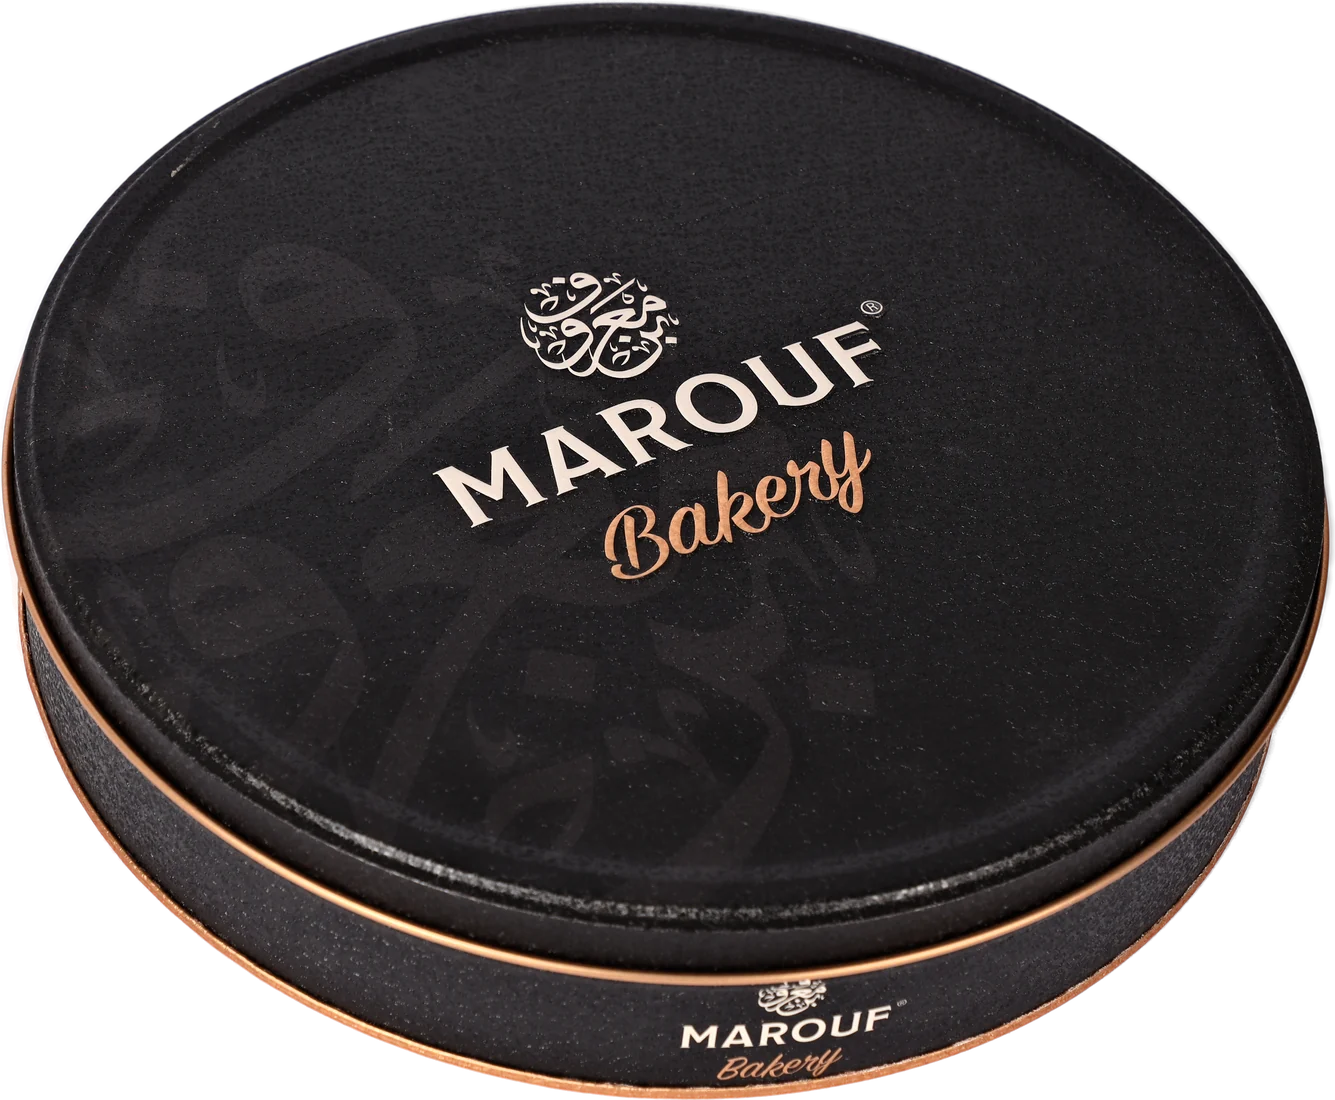
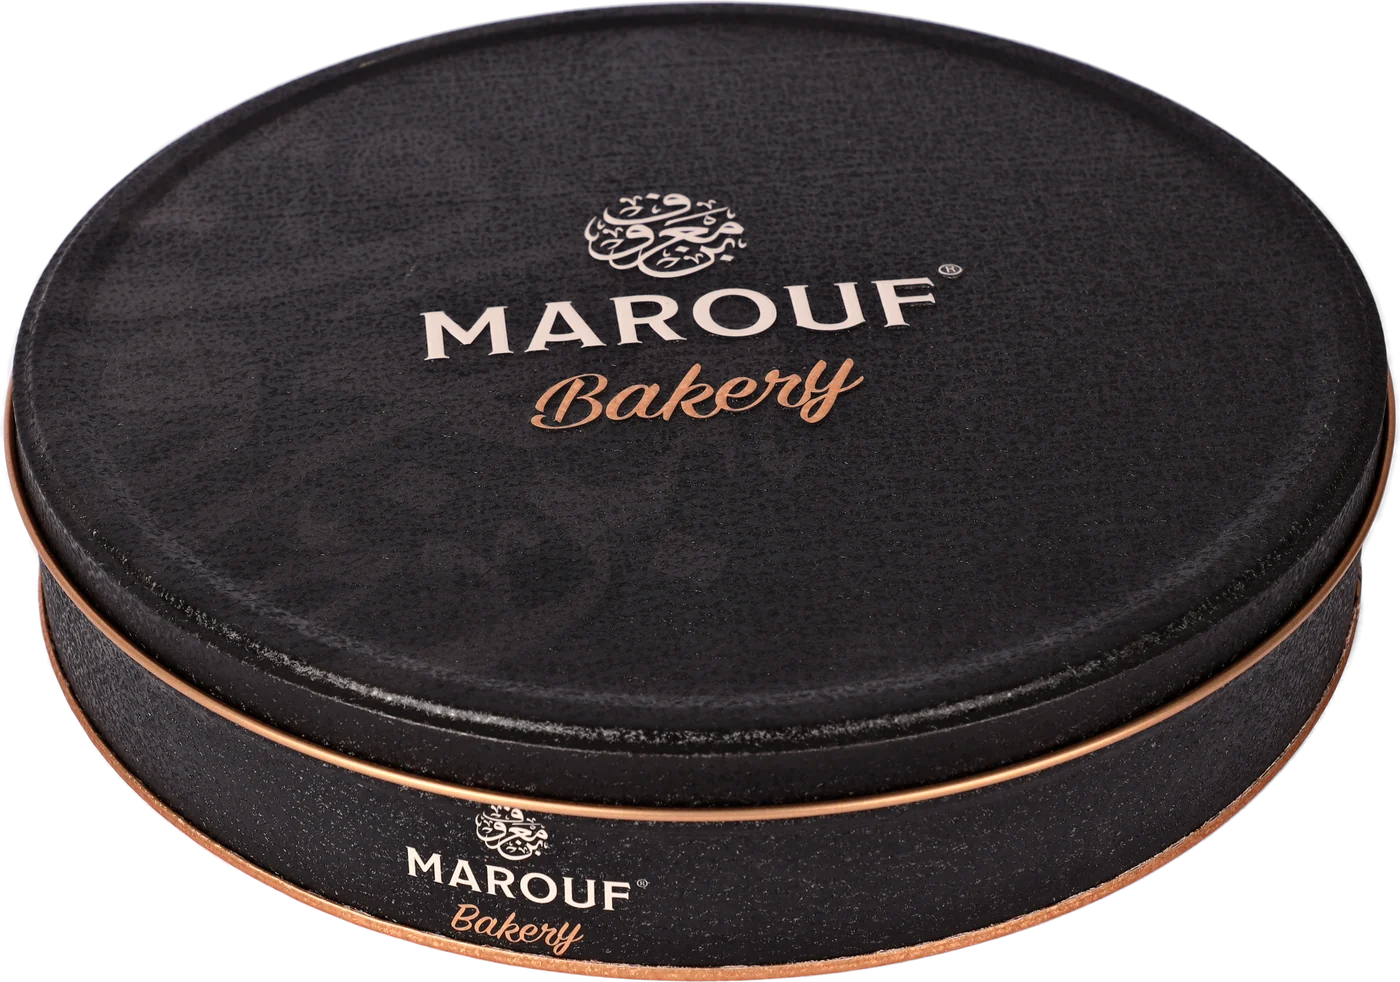
Real, shared sizes for the photographed tins
Each photo is as wide as the tin it shows (pw in mm); the home ring keeps every tin at the main tin's
scale with natural perspective (no per-tin resizing, no shrinking the front one); the ring and the
inner-page cameras look down at about the angle the photos were taken from, so the flat tins and the
3D Al Qaisi read alike. Marouf uses its lower-angle photo; the title wall follows the new line of sight.

Claude-Session: https://claude.ai/code/session_01MEFuC6nnG29RtTkZKYjLJx

diff --git a/website-v2/assets/js/engine/tins.js b/website-v2/assets/js/engine/tins.js
@@ -14,23 +14,24 @@ const TAU = Math.PI * 2;
 // ---------------------------------------------------------------- the real tins (catalogue sizes where a tin matches one)
 export const TINS = {
   qaisi: { kind: 'round', D: 237.6, H: 60, skirt: 15.7, fmt: ['Round 235', 'دائري 235'], dims: 'Ø 237.6 × 60 mm' },
-  // the factory's tins from the owner's latest photos, shown as the photographs themselves (photo: the photo's width / height;
-  // see photoTin below). Their artwork is too rich to rebuild in 3D faithfully. Sizes are read from the photos (proportions), rounded to likely
-  // catalogue sizes: treat them as approximate until the factory confirms each one.
-  nejmah: { kind: 'round', photo: 1.378, D: 230, H: 58, fmt: ['Round gift tin', 'علبة هدايا دائرية'] },
-  maamoul: { kind: 'round', photo: 1.6647, D: 240, H: 55, fmt: ['Round gift tin', 'علبة هدايا دائرية'] },
-  marouf: { kind: 'round', photo: 1.2136, D: 230, H: 70, fmt: ['Round gift tin', 'علبة هدايا دائرية'] },
-  habybee: { kind: 'round', photo: 2.099, sides: 8, D: 180, H: 58, stretch: 1.45, fmt: ['Octagonal', 'ثماني الأضلاع'] },
-  jojo: { kind: 'box', photo: 2.1148, w: 230, d: 230, h: 50, fmt: ['Square gift tin, embossed', 'علبة هدايا مربعة بنقش بارز'] },
-  melties: { kind: 'box', photo: 1.9718, w: 250, d: 152, h: 62, fmt: ['Rectangular gift tin', 'علبة هدايا مستطيلة'] },
-  givinova: { kind: 'box', photo: 0.9382, w: 110, d: 110, h: 105, fmt: ['Square tin', 'علبة مربعة'] },
-  shawra: { kind: 'box', photo: 0.8482, w: 225, d: 225, h: 235, fmt: ['Square tin with a slip lid', 'علبة مربعة بغطاء'] },
-  rayhan: { kind: 'box', photo: 0.6782, w: 72, d: 72, h: 105, fmt: ['Tall square tin', 'علبة مربعة طويلة'] },
-  kous: { kind: 'box', photo: 0.8436, w: 130, d: 85, h: 170, sideKey: 'kouss', fmt: ['Tea tin', 'علبة شاي'] },
-  abedc: { kind: 'round', photo: 0.6645, D: 100, H: 130, fmt: ['Coffee can with a slip lid', 'علبة قهوة بغطاء'] },
-  havana: { kind: 'round', photo: 0.7945, D: 99, H: 127, fmt: ['Powder can with a slip lid', 'علبة بودرة بغطاء'] },
+  // the factory's tins from the owner's latest photos, shown as the photographs themselves (see photoTin below): their artwork is
+  // too rich to rebuild in 3D faithfully. photo: the photo's width / height. pw: the width the photo shows, in mm (the diameter, or
+  // the faces seen at the photo's angle), which sets the tin's real size in the scenes. Sizes are read from the photos
+  // (proportions), rounded to likely catalogue sizes: treat them as approximate until the factory confirms each one.
+  nejmah: { kind: 'round', photo: 1.378, pw: 230, D: 230, H: 58, fmt: ['Round gift tin', 'علبة هدايا دائرية'] },
+  maamoul: { kind: 'round', photo: 1.6647, pw: 240, D: 240, H: 55, fmt: ['Round gift tin', 'علبة هدايا دائرية'] },
+  marouf: { kind: 'round', photo: 1.4257, pw: 230, D: 230, H: 70, fmt: ['Round gift tin', 'علبة هدايا دائرية'] },
+  habybee: { kind: 'round', photo: 2.099, pw: 261, sides: 8, D: 180, H: 58, stretch: 1.45, fmt: ['Octagonal', 'ثماني الأضلاع'] },
+  jojo: { kind: 'box', photo: 2.1148, pw: 265, w: 230, d: 230, h: 50, fmt: ['Square gift tin, embossed', 'علبة هدايا مربعة بنقش بارز'] },
+  melties: { kind: 'box', photo: 1.9718, pw: 255, w: 250, d: 152, h: 62, fmt: ['Rectangular gift tin', 'علبة هدايا مستطيلة'] },
+  givinova: { kind: 'box', photo: 0.9382, pw: 112, w: 110, d: 110, h: 105, fmt: ['Square tin', 'علبة مربعة'] },
+  shawra: { kind: 'box', photo: 0.8482, pw: 230, w: 225, d: 225, h: 235, fmt: ['Square tin with a slip lid', 'علبة مربعة بغطاء'] },
+  rayhan: { kind: 'box', photo: 0.6782, pw: 80, w: 72, d: 72, h: 105, fmt: ['Tall square tin', 'علبة مربعة طويلة'] },
+  kous: { kind: 'box', photo: 0.8436, pw: 135, w: 130, d: 85, h: 170, sideKey: 'kouss', fmt: ['Tea tin', 'علبة شاي'] },
+  abedc: { kind: 'round', photo: 0.6645, pw: 100, D: 100, H: 130, fmt: ['Coffee can with a slip lid', 'علبة قهوة بغطاء'] },
+  havana: { kind: 'round', photo: 0.7945, pw: 99, D: 99, H: 127, fmt: ['Powder can with a slip lid', 'علبة بودرة بغطاء'] },
   // for the inner pages: an olive-oil tin from its photos, and an illustrative paint can (sample artwork, no client design)
-  oil: { kind: 'oil', photo: 0.8664, w: 175, d: 115, h: 245, front: 'malka', side: 'malkas', fmt: ['Olive-oil tin, 4 L', 'تنكة زيت زيتون 4 لتر'], dims: '175 × 115 × 245 mm' },   // Malka Olive Press
+  oil: { kind: 'oil', photo: 0.8664, pw: 205, w: 175, d: 115, h: 245, front: 'malka', side: 'malkas', fmt: ['Olive-oil tin, 4 L', 'تنكة زيت زيتون 4 لتر'], dims: '175 × 115 × 245 mm' },   // Malka Olive Press
   paint: { kind: 'can', D: 110, H: 120, bail: true, fmt: ['Paint can', 'علبة دهان'], illus: true }
 };
 
@@ -224,8 +225,7 @@ void main() {`)
   return m;
 }
 function photoTin(key, T) {
-  const box = T.kind === 'box' || T.kind === 'oil';
-  const W = (box ? Math.max(T.w, T.d) * 1.15 : T.D * (T.stretch || 1) * 1.04) * U, H = W / T.photo;
+  const W = T.pw * U, H = W / T.photo;   // real size: the photo is as wide as the tin it shows
   const g = new THREE.Group(), yaw = new THREE.Group(), card = new THREE.Group(); g.add(yaw); yaw.add(card);
   let done; const ready = new Promise((r) => { done = r; });
   const tex = loader.load(PHOTOS + key + '.webp', () => done(), undefined, () => done());

diff --git a/website-v2/assets/js/engine/film.js b/website-v2/assets/js/engine/film.js
@@ -32,7 +32,7 @@ const SHOTS = [
   { pos: V(0, 1.05, 5.4), tgt: V(0, 0.5, 0), fov: 30 },           // hero: the tin in front of the title wall
   { pos: V(0.42, 1.12, 1.18), tgt: V(0.08, 0.6, -0.08), fov: 30 }, // macro on the lid
   { pos: V(AX - 1.15, 3.3, 5.0), tgt: V(AX - 1.0, 0.25, 0), fov: 30 }, // layers: the rig to the right of the text
-  { pos: V(0, 3.4, 10.6), tgt: V(0, 1.05, 2.2), fov: 30 },         // ring (aimed low, so the tin in front stays above the caption)
+  { pos: V(0, 9.2, 19.5), tgt: V(0, 0.2, 0.9), fov: 24 },          // ring: the whole ring, from about the angle the tins were photographed at
   { pos: V(-2.7, 1.5, 4.2), tgt: V(-0.55, 0.28, 0), fov: 30 },      // lab: the tin to the side away from the card
   null                                                             // from sheet to shelf: the journey rig moves its own camera
 ];
@@ -120,9 +120,8 @@ export function createFilm(canvas) {
   const ring = RING_KEYS.map((k, i) => {
     const m = TIN.make(k); ready.push(m.ready); m.print.forEach((p) => TIN.setFinish(p, 'gloss'));
     const holder = new THREE.Group(); holder.add(m.group); if (!m.photo) holder.add(contact(Math.max(m.size.w, m.size.d))); holder.scale.setScalar(0.001); scene.add(holder);
-    // tall tins are brought down to the height of the others, so none of them hides the ring from the camera
-    // a photo faces the camera with its full height, so it is kept smaller than a 3D tin seen from above
-    return { key: k, m, holder, i, base: m.photo ? Math.min(0.7, 0.8 / m.size.h, 1.55 / m.size.w) : Math.min(1, 1.15 / m.size.h, 2.5 / Math.max(m.size.w, m.size.d)) };
+    // every tin at its real size, on the same scale as the main tin
+    return { key: k, m, holder, i, base: 1 };
   });
   // ---------------------------------------------------------------- from sheet to shelf (journey.js)
   const ptr = { x: 0.2, y: -0.2, sx: 0.2, sy: -0.2 };
@@ -183,7 +182,7 @@ export function createFilm(canvas) {
     const drift = S.i === 1 ? 0.04 : S.i === 5 ? 0.1 : 0.18;
     tmpP.x += ptr.sx * drift; tmpP.y -= ptr.sy * drift * 0.5;
     // tall screens: step back so the subject keeps its width
-    const backOf = (i) => Math.max(1, (i === 5 ? 1.0 : 0.95) / camera.aspect);
+    const backOf = (i) => Math.max(1, (i === 5 ? 1.0 : i === 3 ? 1.25 : 0.95) / camera.aspect); // the ring is wide: on a phone the camera steps further back
     const back = lerp(backOf(S.ia), backOf(S.ib), S.k);
     camera.position.copy(tmpT).addScaledVector(tmpP.clone().sub(tmpT), back);
     camera.lookAt(tmpT);
@@ -222,11 +221,8 @@ export function createFilm(canvas) {
     if (front !== state.ring) { state.ring = front; listeners.forEach((f) => f(state)); }
     ring.forEach((r, i) => {
       const a = ((i - turn) / RING_KEYS.length) * Math.PI * 2;
-      // an oval ring (shallower towards the camera) and the tins nearest the camera a little smaller: the one in front stays
-      // clear of the caption
-      r.holder.position.set(Math.sin(a) * RING_R, 0, Math.cos(a) * RING_R * 0.68);
-      const near = 1 - 0.38 * sm(clamp(Math.cos(a)));
-      const s = sm(clamp(rise * 1.6 - i * 0.05)) * (1 - gone) * near;
+      r.holder.position.set(Math.sin(a) * RING_R, 0, Math.cos(a) * RING_R);
+      const s = sm(clamp(rise * 1.6 - i * 0.05)) * (1 - gone);
       r.holder.visible = s > 0.002; r.holder.scale.setScalar(Math.max(0.001, s * r.base));
       r.m.group.rotation.y = a + (REDUCED ? 0 : t * 0.2) - 0.4;
     });

diff --git a/website-v2/assets/js/engine/stage.js b/website-v2/assets/js/engine/stage.js
@@ -112,8 +112,9 @@ export function createHero(canvas, { tins = ['qaisi'] } = {}) {
   const wall = new THREE.Mesh(new THREE.PlaneGeometry(TW, TH), new THREE.MeshBasicMaterial({ map: tt, transparent: true, depthWrite: false, toneMapped: false }));
   // tall tins: the wall and the camera go up with them, so the title stays readable above the tins
   const lift = Math.max(0, row.size.h - 0.62);
-  const POS = V(0, 1.05 + lift * 0.8, 5.4), TGT = V(0, 0.5 + lift * 0.8, 0);
-  wall.position.set(0, 1.22 + lift * 0.9, -2.6); wall.lookAt(POS.x, wall.position.y, POS.z); wall.renderOrder = -1; scene.add(wall);
+  const POS = V(0, 2.5 + lift * 0.8, 5.2), TGT = V(0, 0.62 + lift * 0.8, 0); // from above, at about the angle the tins were photographed at
+  wall.position.set(0, TGT.y - 2.6 * (POS.y - TGT.y) / POS.z + 1.08 + lift * 0.1, -2.6); // just above the line of sight
+  wall.lookAt(POS.x, wall.position.y, POS.z); wall.renderOrder = -1; scene.add(wall);
   function title(text, lang, mode) {
     const x = tc.getContext('2d'); x.clearRect(0, 0, 4096, 1600);
     const face = lang === 'ar' ? '700 {s}px "Readex Pro", sans-serif' : '800 {s}px "Bricolage Grotesque", sans-serif';
@@ -163,7 +164,7 @@ export function createLab(canvas, { tin = 'qaisi', finish = 'gloss', transparent
   cur.g.visible = true;
   const apply = (r, name, g) => r.holders.forEach((o) => o.m.print.forEach((m) => TIN.setFinish(m, name, g)));
   apply(cur, fin);
-  const POS = V(0, 1.75, 5.3), TGT = V(0, 0.45, 0);
+  const POS = V(0, 2.4, 5.2), TGT = V(0, 0.42, 0);
   st.handK = transparent ? 6 : 10;
   if (transparent) Object.assign(ptr, { x: 0.25, y: -0.3, sx: 0.25, sy: -0.3 });
   st.loop((t) => {

diff --git a/website-v2/README.md b/website-v2/README.md
@@ -131,6 +131,9 @@ folded flat are modelled. The paint can is now the only illustrative tin. Many m
 - Photos: `assets/img/photos/<key>.webp` (scenes) and `assets/img/renders/<key>.webp` (cards), made from the owner's cut-outs
   by the scratchpad script `tools/photos.py` (crop, premultiplied resize, WebP with alpha). `photo:` in `TINS` is each photo's
   width / height.
+- Sizes are real and shared: each photo is as wide as the tin it shows (`pw:` in mm), every tin in the home ring is at the same
+  scale as Al Qaisi in the middle (no per-tin resizing), and the ring and hero cameras look down at about the angle the photos
+  were taken from (25-30 degrees), so flat tins and the 3D Al Qaisi read alike.
 - CSS and JS links carry `?v=<hash>` (build.mjs), so browsers fetch new files after each change.
 
 ## Publishing
